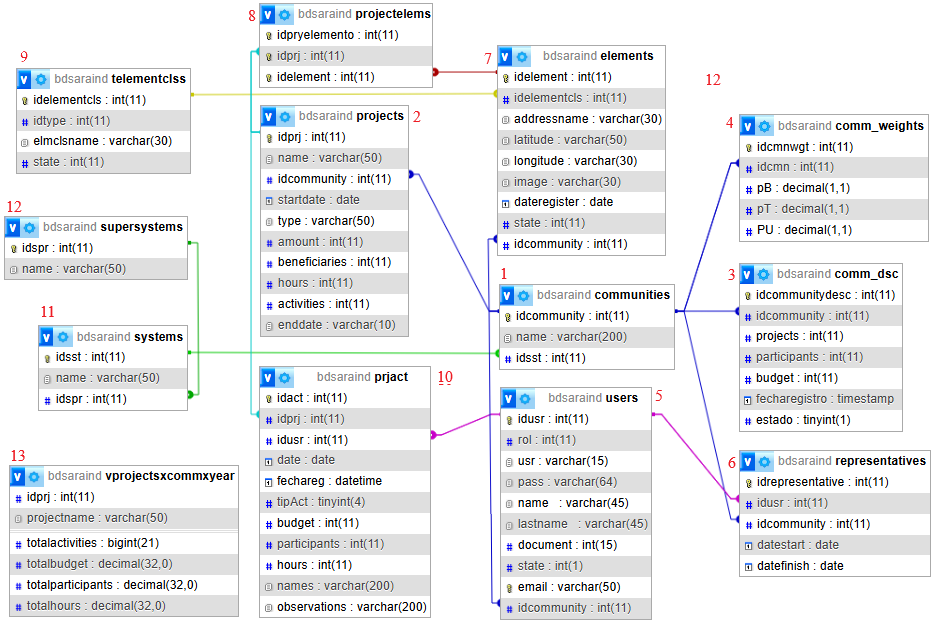
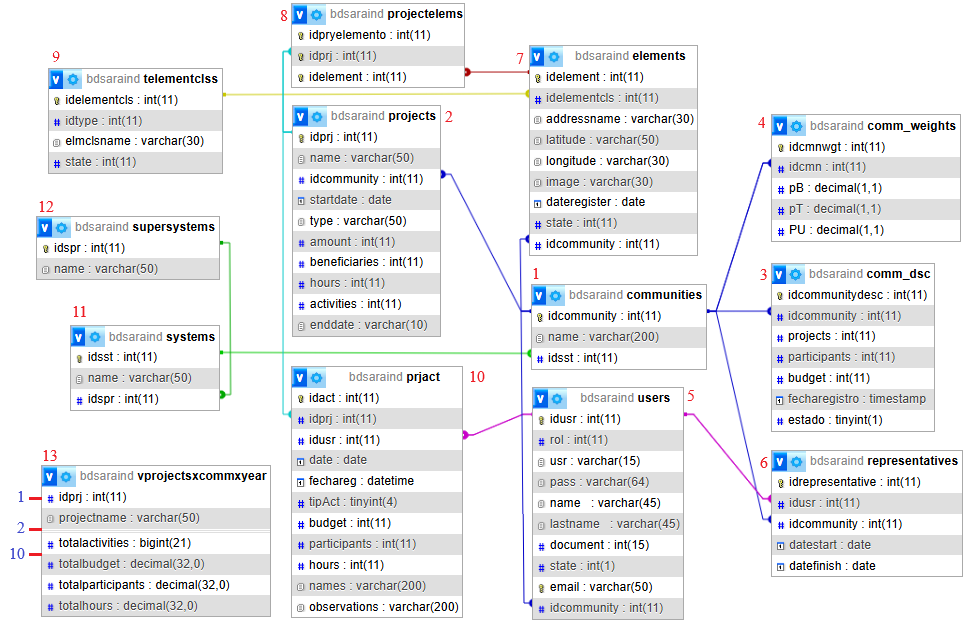
Improve docuemtacion

diff --git a/docs/index.md b/docs/index.md
@@ -11,10 +11,12 @@ Based on its use by several boards, the system was extended with a specialized m
 As a result, SARA is now organized into two main modules: SARA-Reg, for project data registration, and SARA-Ind, which focuses 
 on indicator generation.
 
-<li>SARA was developed as part of Project 4271 of the VIE by: **Urbano Eliécer Gómez-Prada**</li>
-<li>School of Systems Engineering, Universidad Industrial de Santander</li>
-<li>Bucaramanga – Colombia, [[email redacted]](mailto:[email redacted])</li>
-<li>2026</li>
+<p>
+SARA was developed as part of Project 4271 of the VIE by <strong>Urbano Eliécer Gómez-Prada</strong><br>
+School of Systems Engineering, Universidad Industrial de Santander<br>
+Bucaramanga, Colombia — <a href="mailto:[email redacted]">[email redacted]</a><br>
+2026
+</p>
 
 The proposed application and indicator model were conceived with a generic structure that allows adaptation to different organizational and 
 territorial contexts. The system is implemented as an indicator-generation module integrated into SARA, a previously proposed service-oriented 
@@ -28,5 +30,5 @@ manage community projects effectively.
 In the Colombian context, JACs are primarily composed of families engaged in agricultural, livestock, and other rural-related activities, and 
 they are located in areas with a population density of fewer than 150 inhabitants per square kilometer. 
 
-1. https://acofipapers.org/index.php/eiei/article/view/4844
+1. <a href="https://acofipapers.org/index.php/eiei/article/view/4844" target="_blank">Paper published at ACOFI Papers</a>
 

diff --git a/docs/admin/indInterv.md b/docs/admin/indInterv.md
@@ -16,11 +16,11 @@ Item Indicators are defined as a measure of the degree of compliance with the go
 
 The indicator Iᵢⱼ may take values greater than 1 when the defined goal is exceeded, which makes it possible to identify scenarios of overachievement and additional efficiency.
 
-![Ind consolidado ](../img/fig4a_3Ind.jpg)
+![Ind consolidado ](../img/fig4a_4Ind.jpg)
 
 An unfiltered example is also presented.
 
-![Ind consolidado ](../img/fig4a_3Ind_large.jpg)
+![Ind consolidado ](../img/fig4a_4Ind_large.jpg)
 
 # Project Intervention Report (MVC)
 
@@ -48,5 +48,5 @@ The steps are as follows:
 
 The process is shown in the following figure.
  
-![MVC](../img/fig6_mvc.jpg)
+![MVC](../img/fig3_mvc.jpg)
 

diff --git a/docs/admin/indInterGnrl.md b/docs/admin/indInterGnrl.md
@@ -27,8 +27,8 @@ The figure includes the following sections:
 
 An example from mid-January 2026 is shown in the figure.
 
-![Indicador de intervención general](../img/fig4e_indGnrl.jpg)
+![Indicador de intervención general](../img/fig5e_indGnrl.jpg)
 
 An unfiltered example is also presented.
 
-![Ind consolidado ](../img/fig4e_indGnrl_large.jpg)
+![Ind consolidado ](../img/fig5e_indGnrl_large.jpg)

diff --git a/docs/admin/indElem.md b/docs/admin/indElem.md
@@ -8,4 +8,4 @@ The report includes filtering options.
 
 An example from mid-January 2026 is shown in the figure.
 
-![Informe de Elementos](../img/fig5_indelem.jpg)
+![Informe de Elementos](../img/fig6_indelem.jpg)